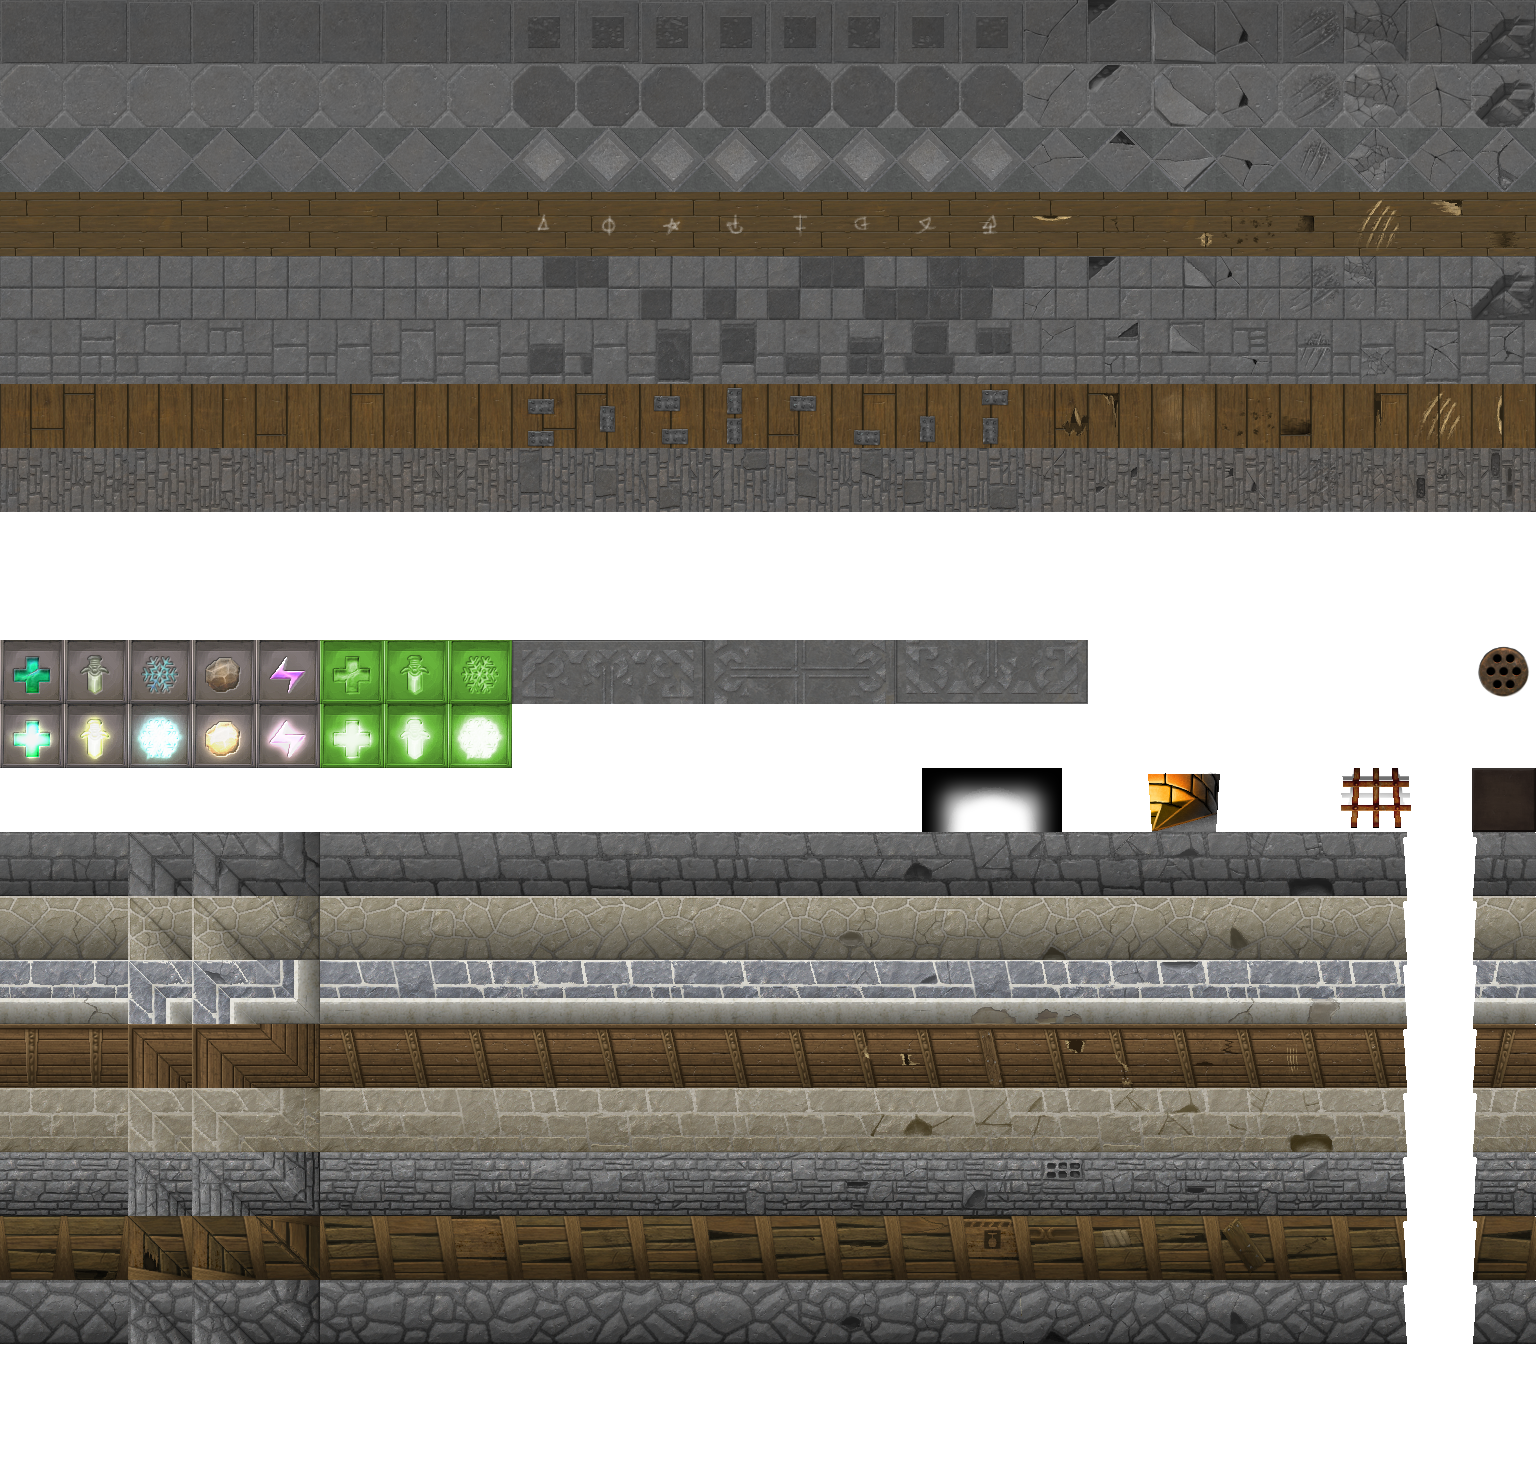
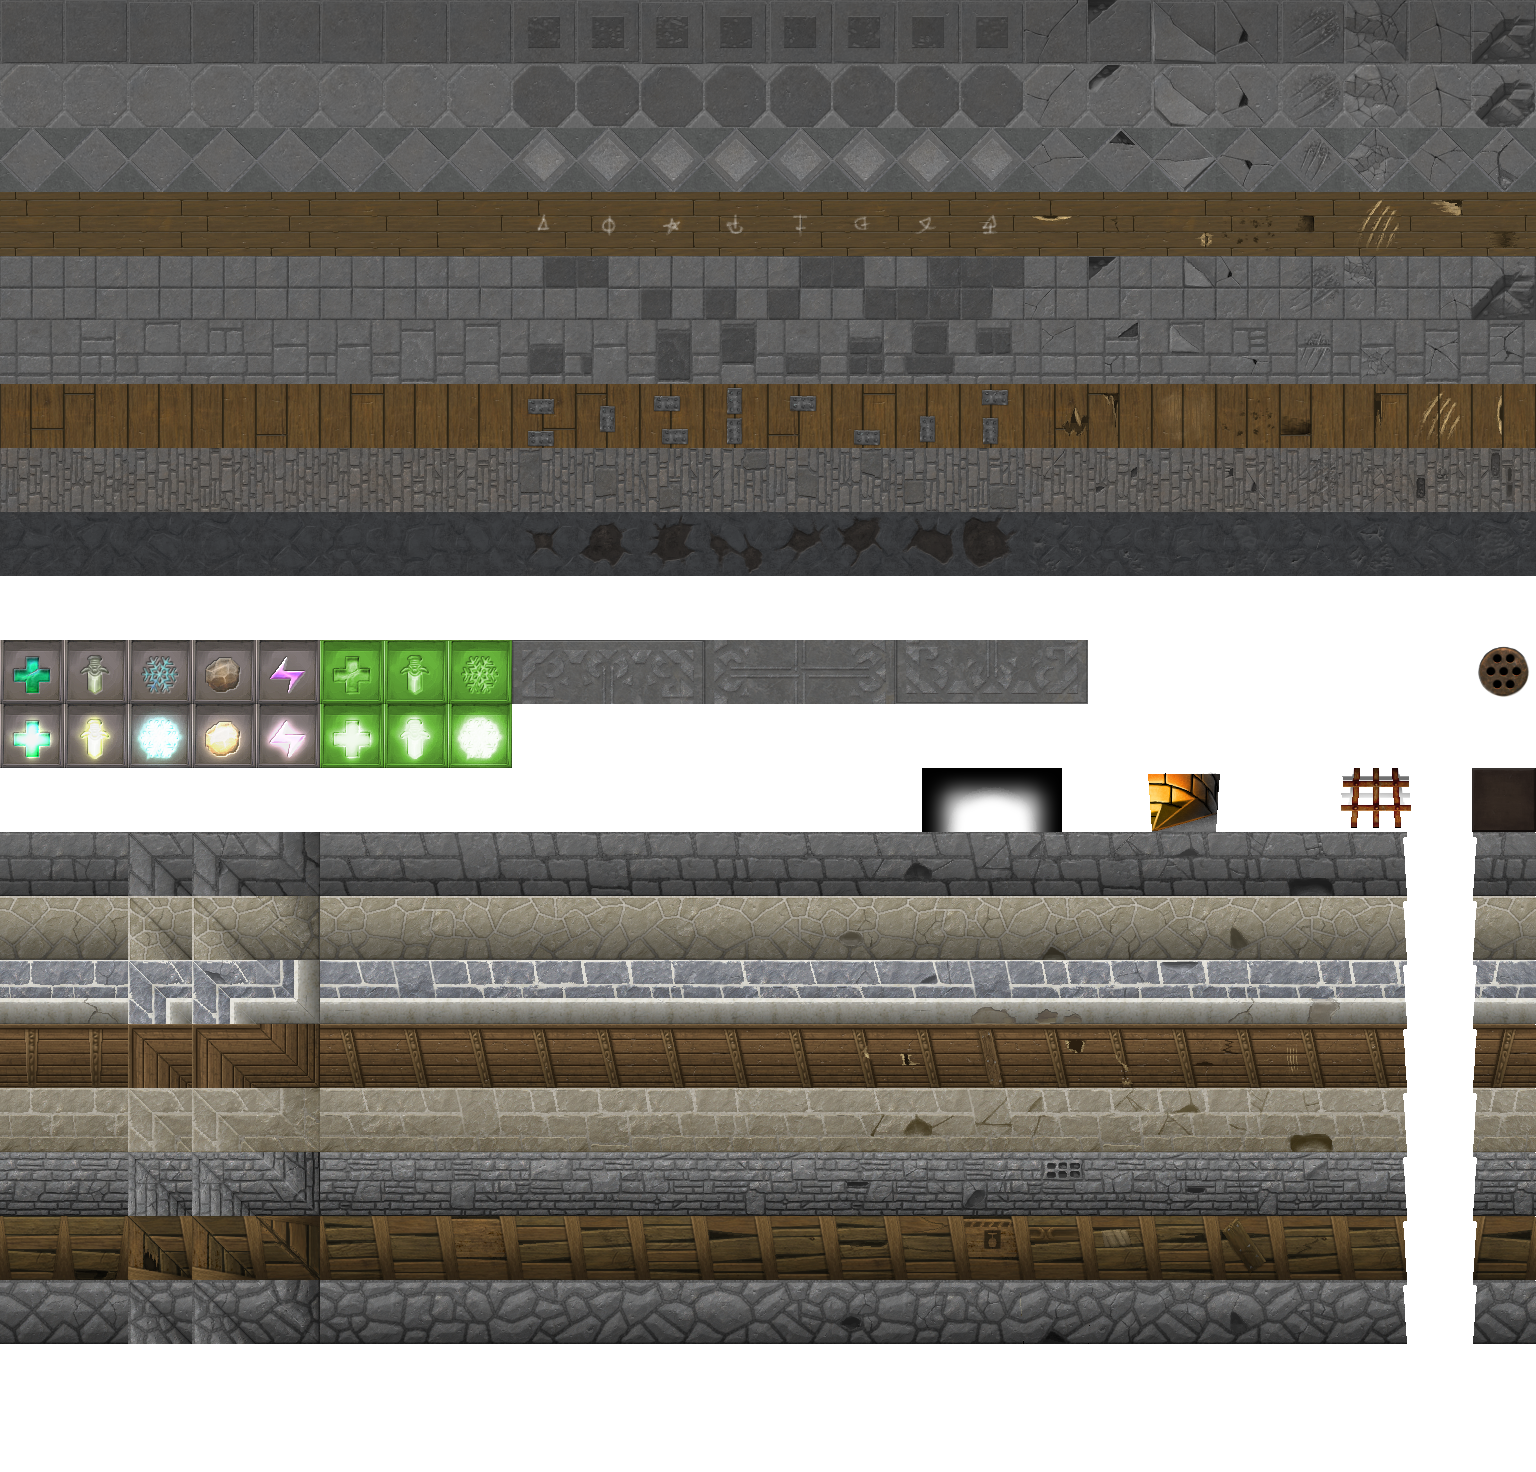
ADD Secret room generation and tiles

Changed region(s): [[0.0, 0.3438, 1.0, 0.4062]]

diff --git a/src/DungeonMap.cpp b/src/DungeonMap.cpp
@@ -461,8 +461,12 @@ void DungeonMap::initRoom(int floorN, int wallN)
   int i, j;
 
   // style
-  if (floorN < 0) floorOffset = ((game().getLevel() - 1) % 8) * 24 ;
-  else floorOffset = floorN;
+  if (roomType == roomTypeSecret)
+    floorOffset = 8 * 24;
+  else if (floorN < 0)
+    floorOffset = ((game().getLevel() - 1) % 8) * 24 ;
+  else
+    floorOffset = floorN;
 
   if (wallN < 0) wallType = ((game().getLevel() - 1) % 8) ;
   else wallType = wallN;
@@ -993,6 +997,19 @@ void DungeonMap::generateTempleRoom()
   // no random tiles in temples
   //generateRandomTiles();
 }
+
+void DungeonMap::generateSecretRoom()
+{
+  initRoom();
+
+  if (rand() % 2 == 0)
+  {
+    initPattern(PatternSmallChecker);
+  }
+
+  generateRandomTiles();
+}
+
 
 void DungeonMap::generateCarpet(int x0, int y0, int w, int h, int n)
 {

diff --git a/src/WitchBlastGame.cpp b/src/WitchBlastGame.cpp
@@ -4351,7 +4351,19 @@ void WitchBlastGame::generateMap()
   }
   else if (currentMap->getRoomType() == roomTypeSecret)
   {
-    currentMap->generateRoomWithoutHoles(0);
+    currentMap->generateSecretRoom();
+
+    // if
+    {
+      new ChestEntity((TILE_WIDTH * MAP_WIDTH * 0.5f + TILE_WIDTH),
+                    (TILE_HEIGHT * MAP_HEIGHT * 0.5f),
+                    ChestBasic, false);
+
+      new ChestEntity((TILE_WIDTH * MAP_WIDTH * 0.5f - TILE_WIDTH),
+                    (TILE_HEIGHT * MAP_HEIGHT * 0.5f),
+                    ChestBasic, false);
+    }
+
     currentMap->setCleared(true);
 
     // secret found text

diff --git a/src/DungeonMap.h b/src/DungeonMap.h
@@ -210,6 +210,7 @@ class DungeonMap : public GameMap
     Vector2D generateKeyRoom();
     void generateTemple(int x, int y, enumDivinityType type);
     void generateTempleRoom();
+    void generateSecretRoom();
     void generateInselRoom();
     void addRandomGrids(int n);
 
